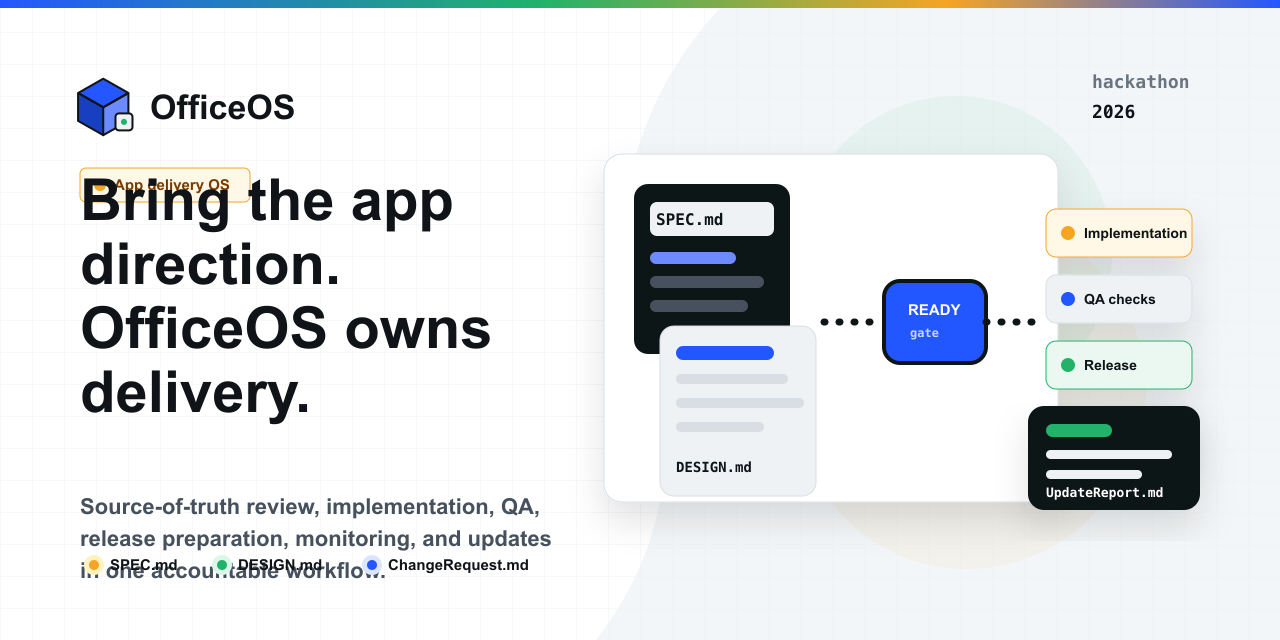
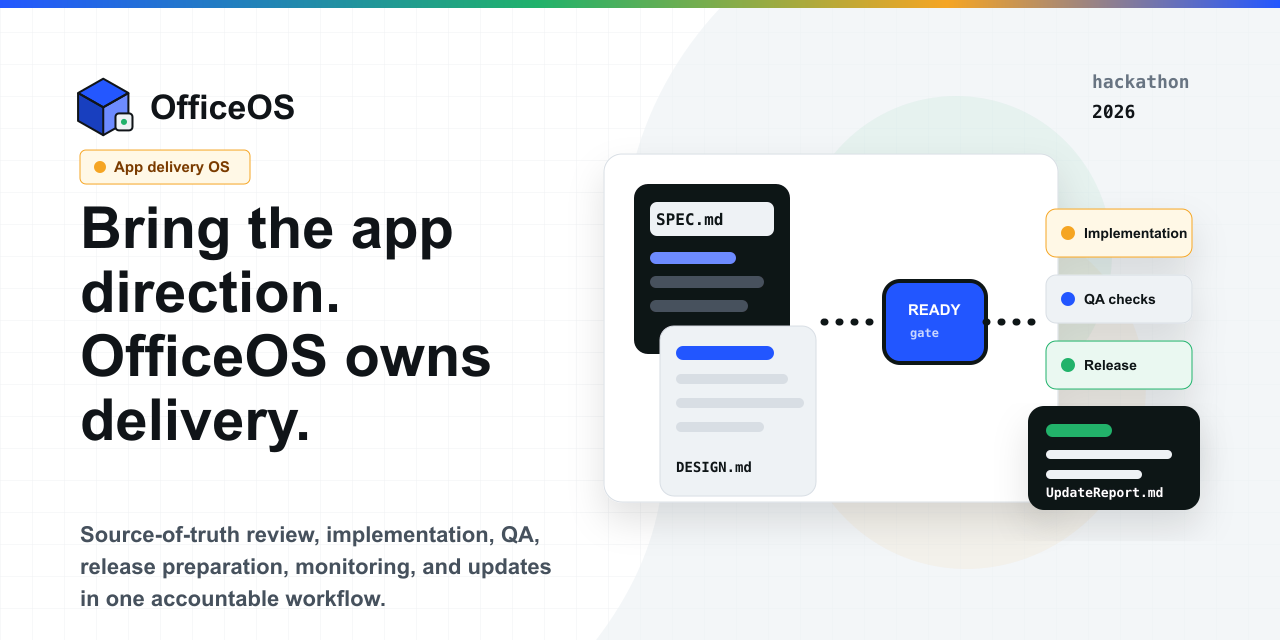
save

Changed region(s): [[0.0625, 0.2188, 0.4062, 0.7188], [0.0625, 0.7812, 0.4375, 0.9688]]

diff --git a/README.md b/README.md
@@ -1,7 +1,7 @@
 # OfficeOS
 
 <p align="center">
-  <img src="Assets/logo.svg" alt="OfficeOS logo" width="220" />
+  <img src="Assets/github-banner.png" alt="OfficeOS GitHub banner" width="100%" />
 </p>
 
 **Bring the app direction. OfficeOS owns delivery.**